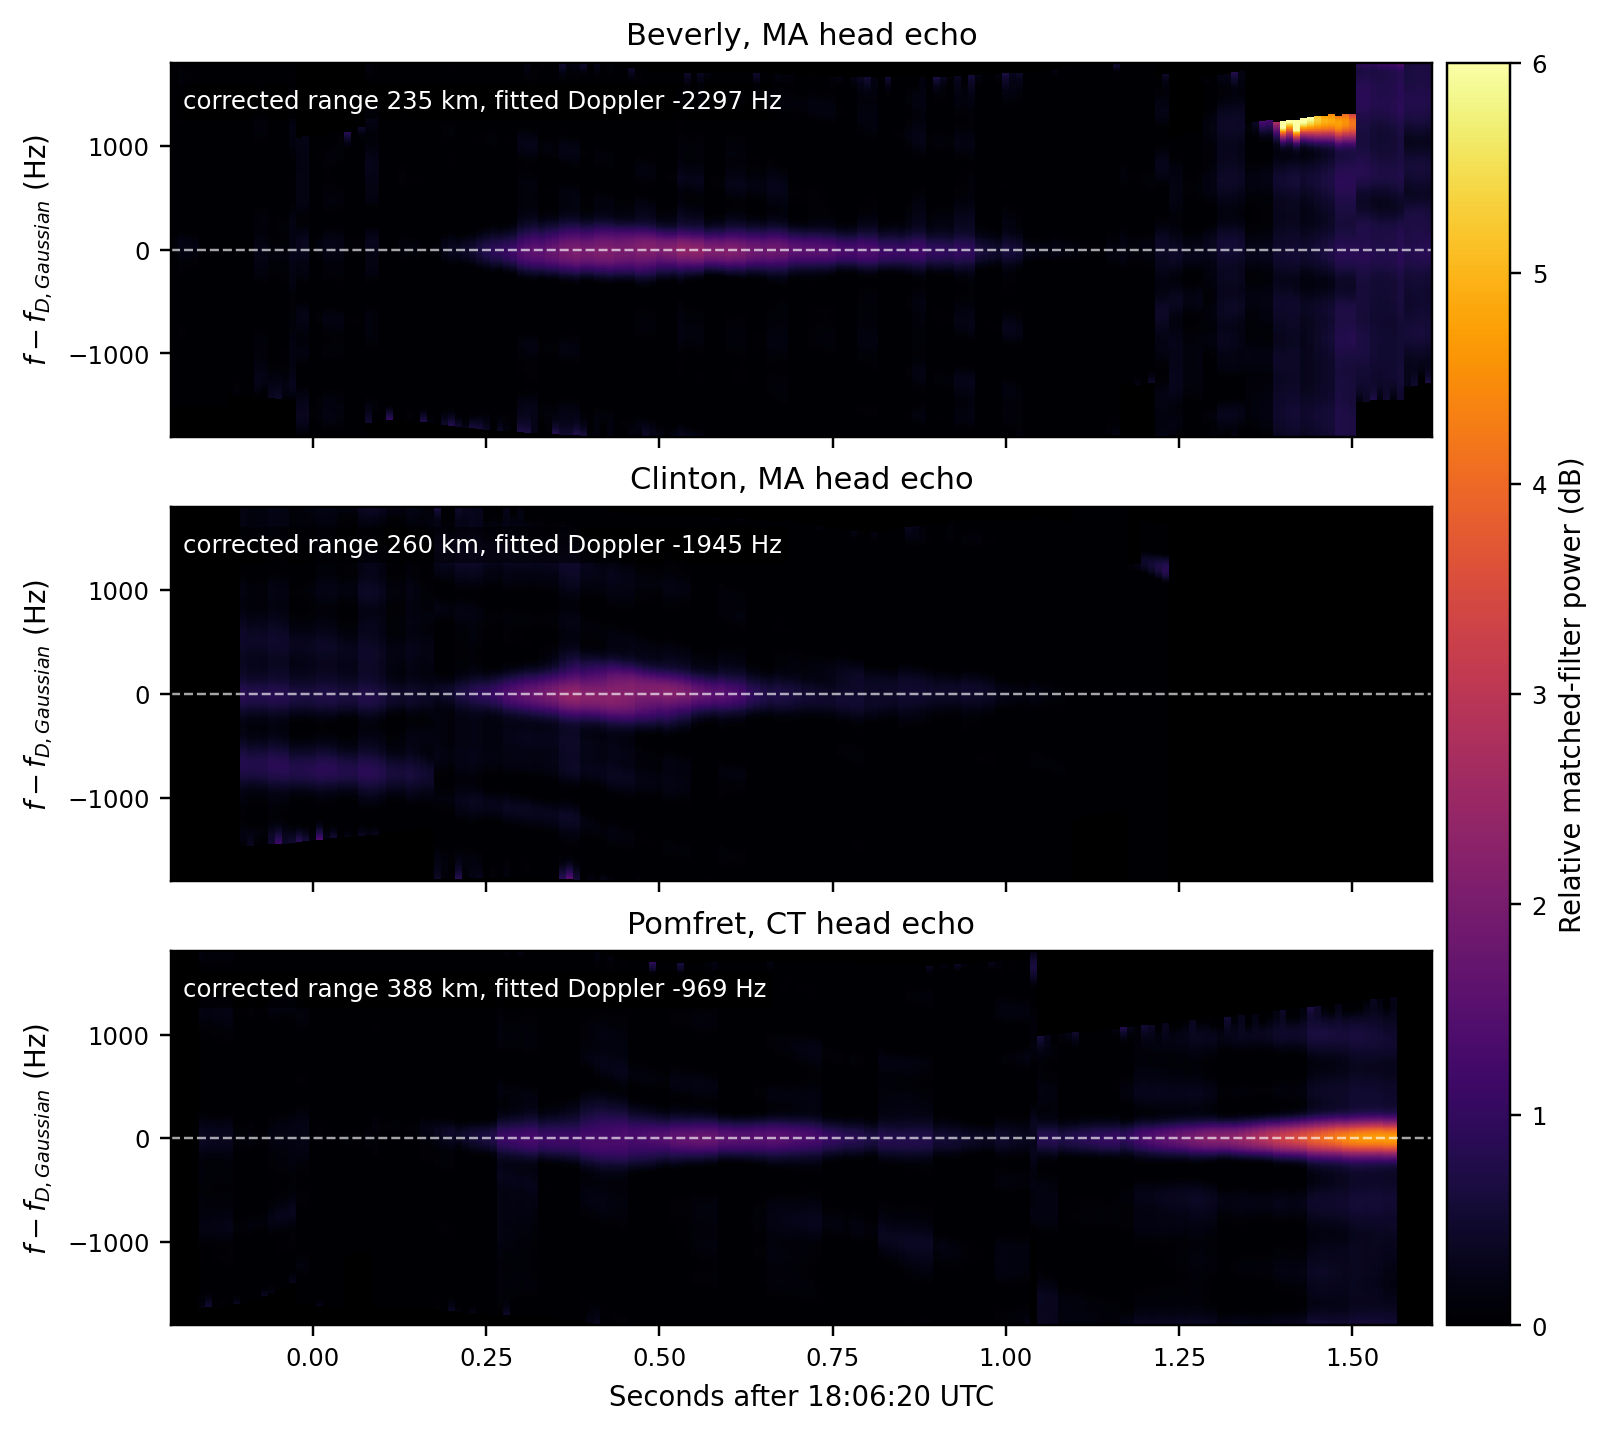
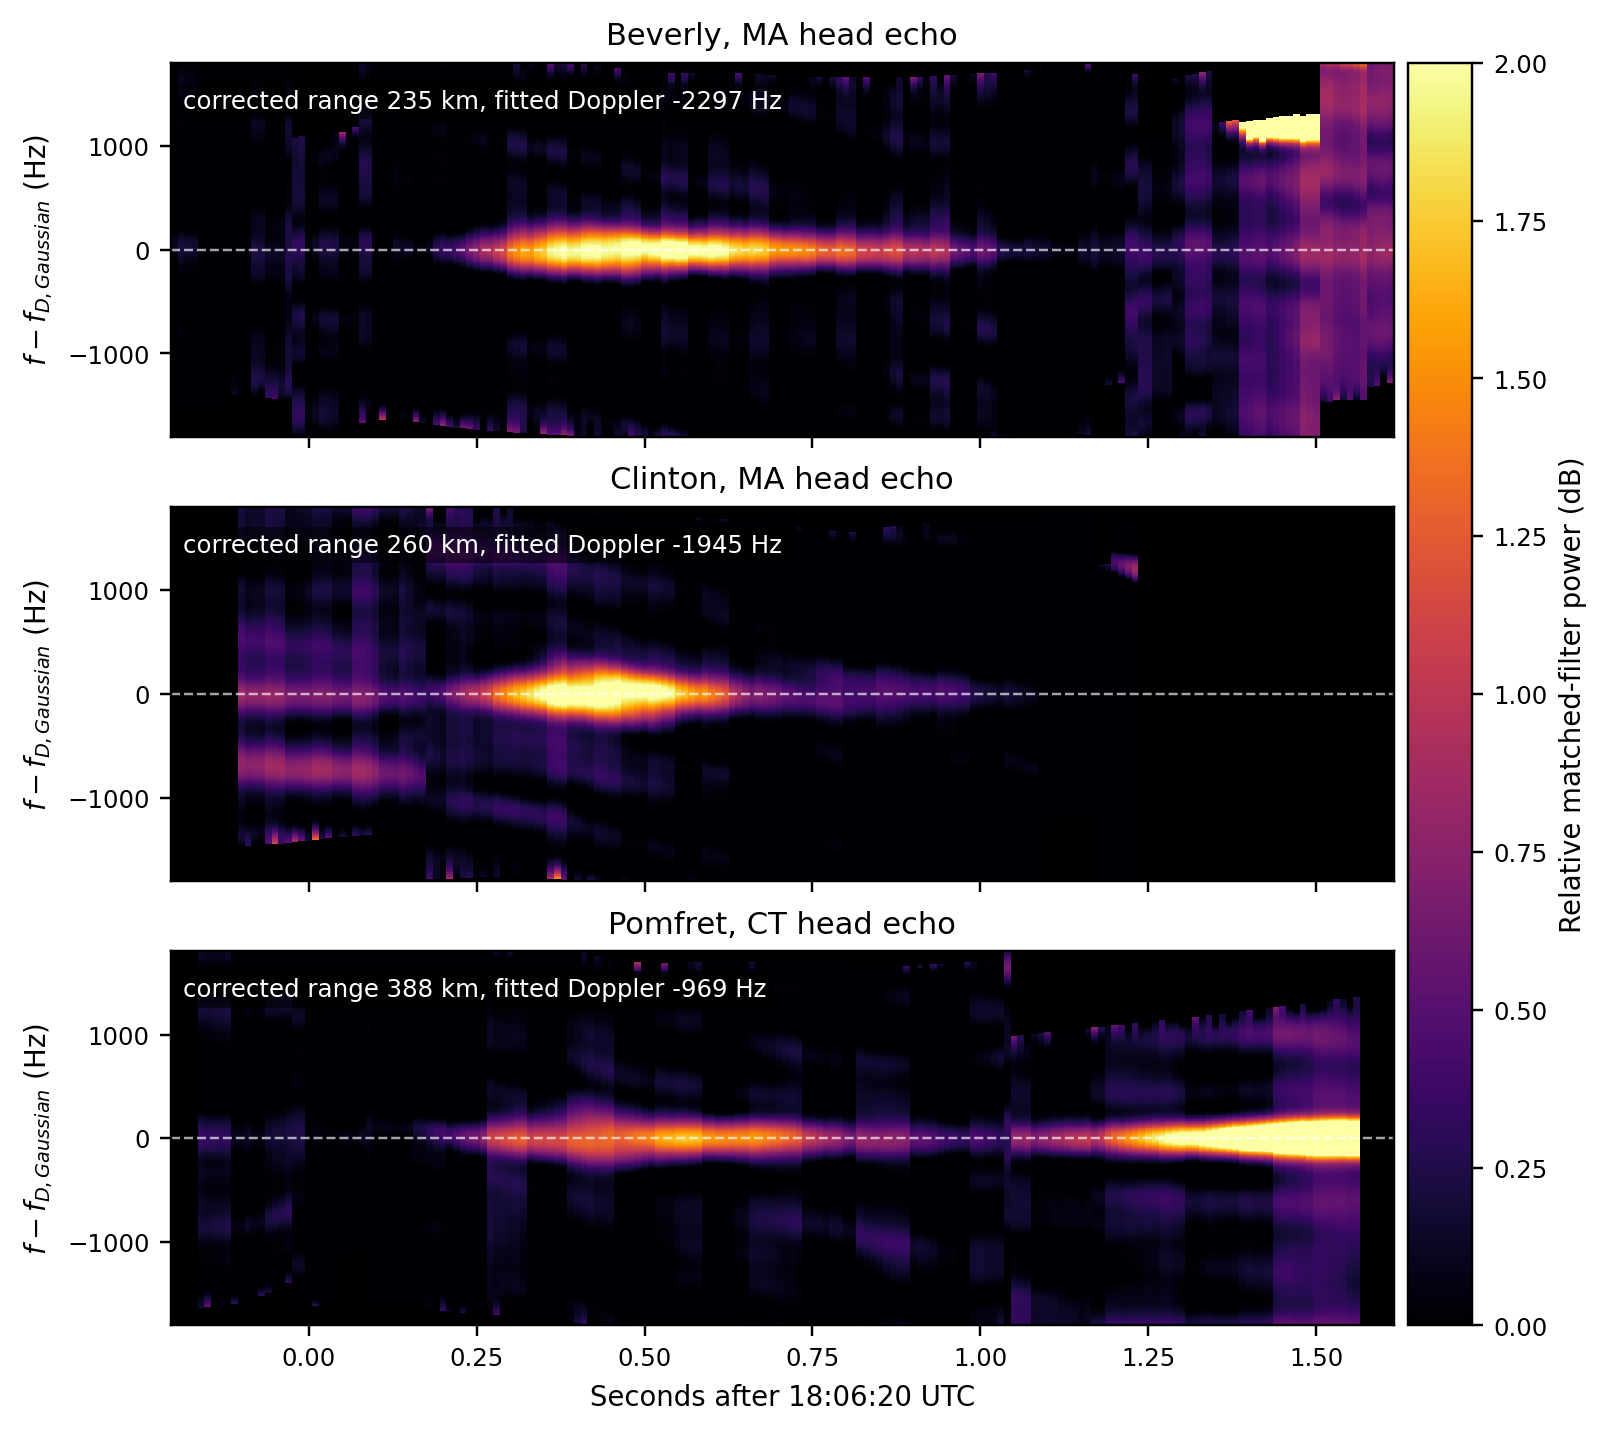
Lower extended microdoppler color scale

diff --git a/reports/generate_head_microdoppler_corrected.py b/reports/generate_head_microdoppler_corrected.py
@@ -195,7 +195,7 @@ def write_summary(path: Path, rows: list[dict]) -> None:
             writer.writerow({field: row.get(field, "") for field in fields})
 
 
-def plot_corrected(results: list[dict], out_fig: Path) -> Path:
+def plot_corrected(results: list[dict], out_fig: Path, vmin_db: float, vmax_db: float) -> Path:
     FIG_DIR.mkdir(parents=True, exist_ok=True)
     plt.rcParams.update(
         {
@@ -215,7 +215,7 @@ def plot_corrected(results: list[dict], out_fig: Path) -> Path:
         t = res["time_rel"]
         f = res["rel_freqs"]
         z = res["spec_db"].T
-        mappable = ax.pcolormesh(t, f, z, shading="auto", cmap="inferno", vmin=0.0, vmax=6.0)
+        mappable = ax.pcolormesh(t, f, z, shading="auto", cmap="inferno", vmin=vmin_db, vmax=vmax_db)
         ax.axhline(0.0, color="white", lw=0.8, ls="--", alpha=0.65)
         ax.set_ylabel("$f-f_{D,Gaussian}$ (Hz)")
         ax.set_title(f"{STATION_LABELS[res['station']]} head echo")
@@ -251,6 +251,8 @@ def main() -> None:
     p.add_argument("--smooth-range-pixels", type=float, default=4.0)
     p.add_argument("--smooth-frequency-pixels", type=float, default=16.0)
     p.add_argument("--code-period-s", type=float, default=0.01)
+    p.add_argument("--vmin-db", type=float, default=0.0)
+    p.add_argument("--vmax-db", type=float, default=6.0)
     args = p.parse_args()
 
     fit_rows = load_fit_rows(args.fit_summary, args.stations)
@@ -264,7 +266,7 @@ def main() -> None:
             rows.extend(station_rows)
     write_summary(args.summary, rows)
 
-    out = plot_corrected(results, args.out_fig)
+    out = plot_corrected(results, args.out_fig, args.vmin_db, args.vmax_db)
     print(out)
     print(args.summary)
 
